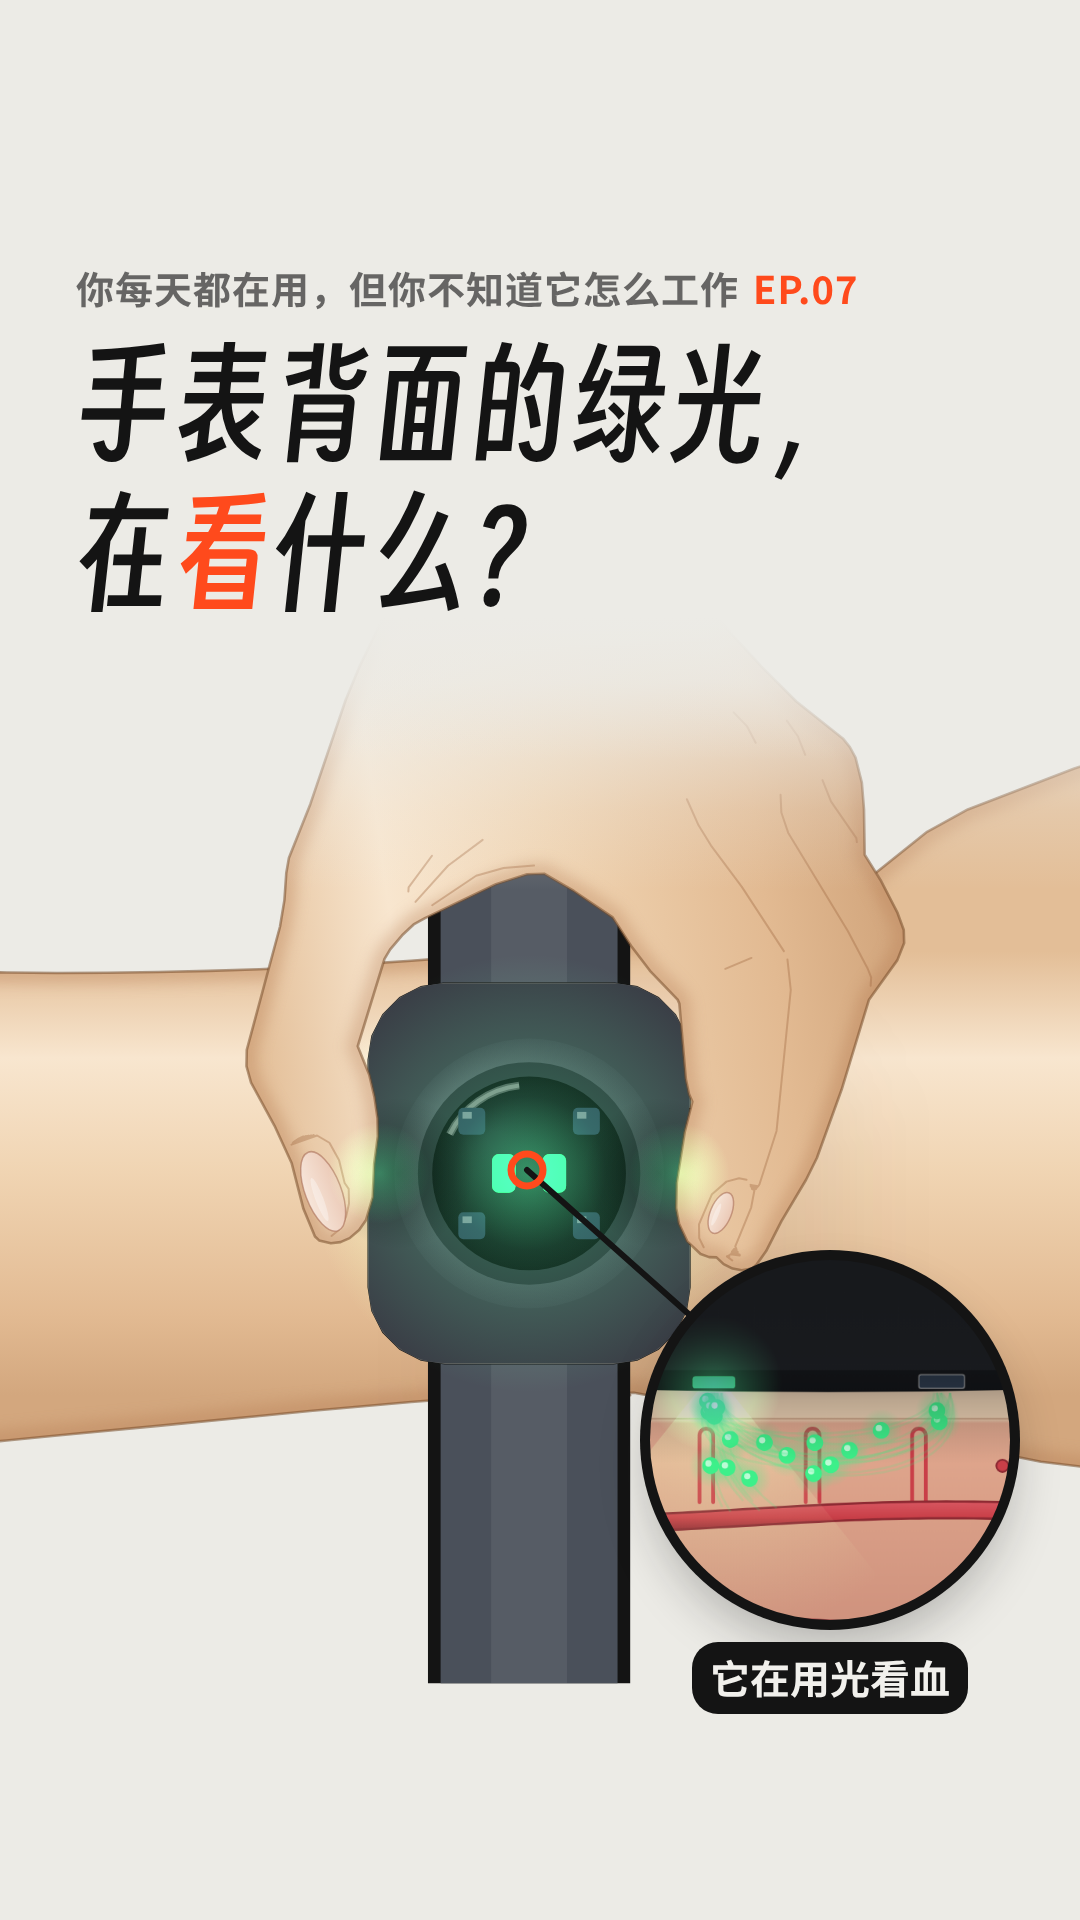
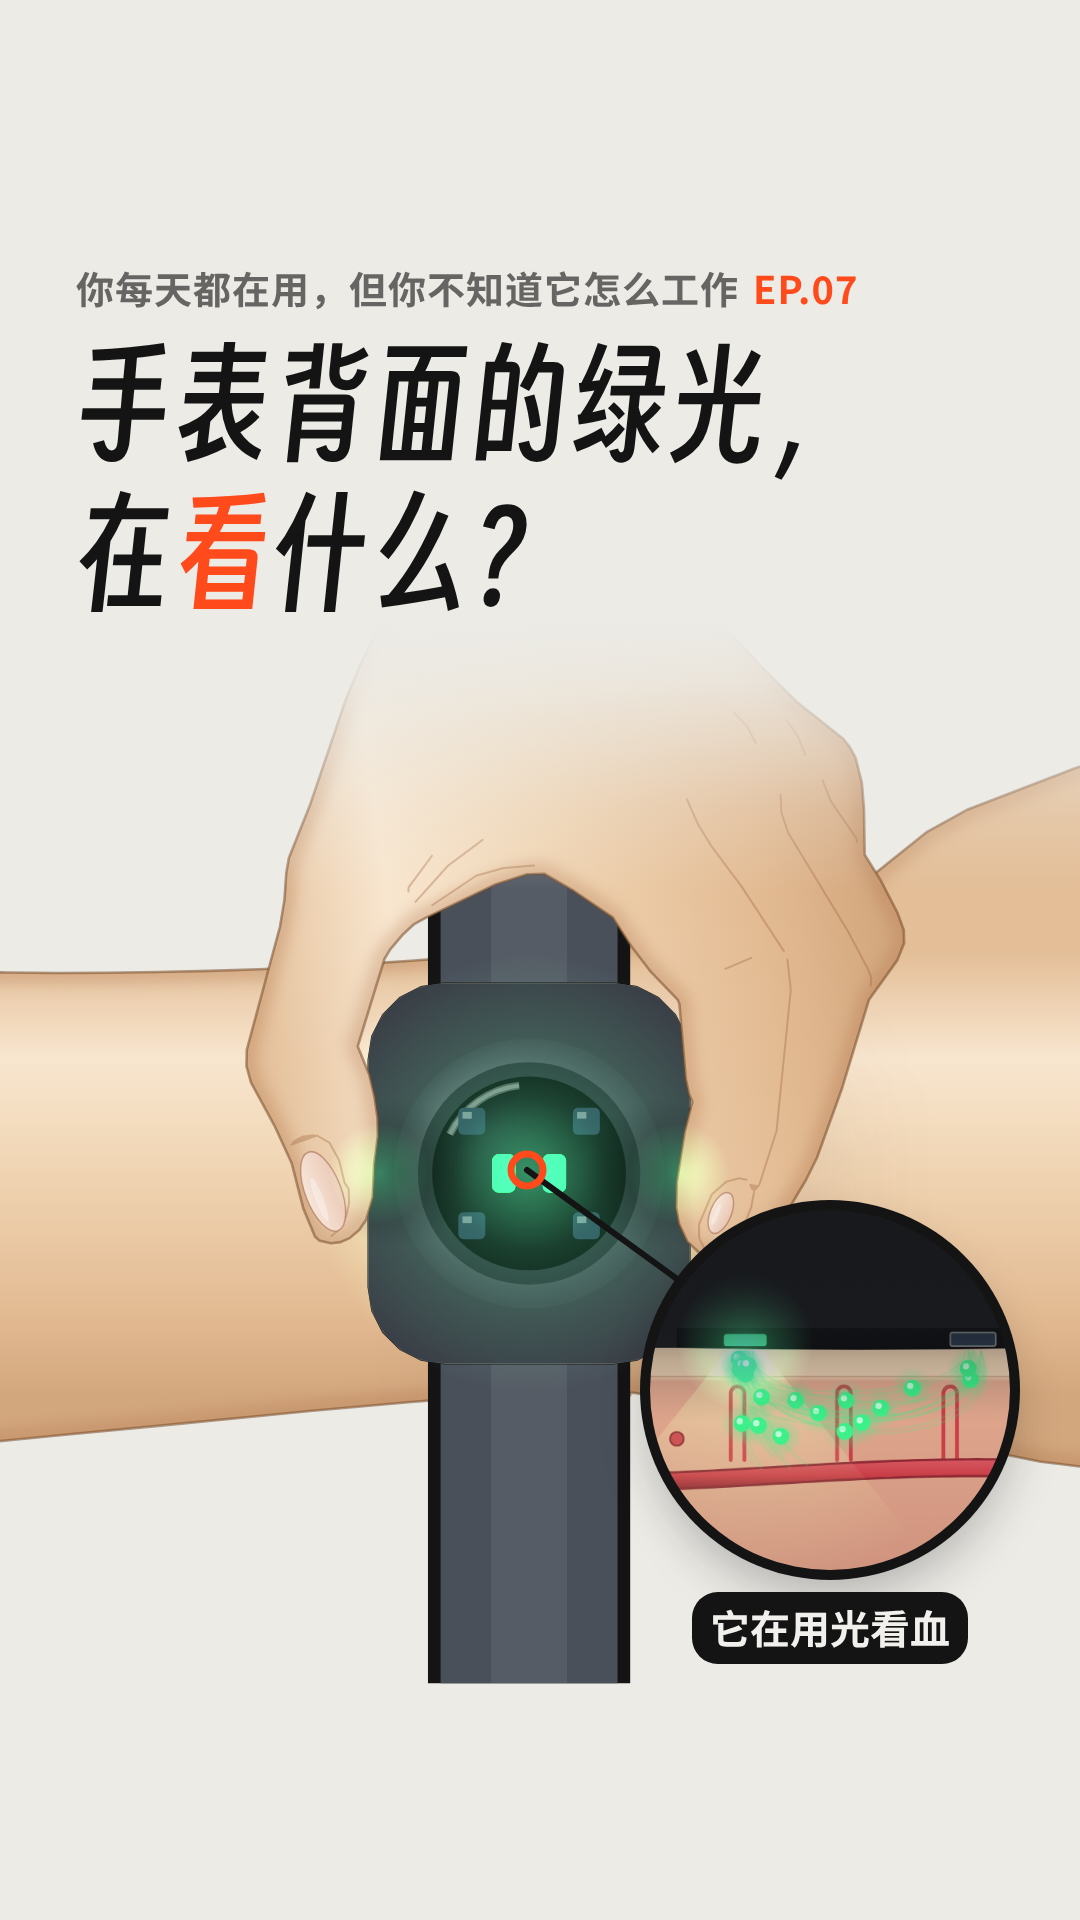
为什么 EP.07 交付包：按审核节点③修改——抖音描述改回「按一分钟算有几下」、补 #手表绿光 #心率监测原理、抖音封面标签收进中间 3:4、置顶评论按系列模板；可选：去掉「一直在闪」、抖音描述注「简化说法」、封面渐变收短、小红书标签上移
Claude-Session: https://claude.ai/code/session_012pd22mfUzfAXHAA1CPF6Wc

Changed region(s): [[0.5194, 0.625, 0.9472, 0.9062]]

diff --git a/templates/weishenme/covers/ep07-xiaohongshu.html b/templates/weishenme/covers/ep07-xiaohongshu.html
@@ -4,24 +4,24 @@
   html, body { margin: 0; background: #ECEBE6; }
   #cv { position: relative; width: 1080px; height: 1440px; overflow: hidden; background: #ECEBE6; }
   .hero { position: absolute; left: 0; top: -170px; width: 1080px; height: 1920px; background: url("art/ep07-hero.png") no-repeat; }
-  .wash { position: absolute; left: 0; top: 0; width: 100%; height: 480px; background: linear-gradient(#ECEBE6 0%, #ECEBE6 70%, rgba(236,235,230,0) 100%); }
+  .wash { position: absolute; left: 0; top: 0; width: 100%; height: 440px; background: linear-gradient(#ECEBE6 0%, #ECEBE6 70%, rgba(236,235,230,0) 100%); }
   .ser { position: absolute; left: 76px; top: 68px; font: 400 38px "NotoSC"; color: rgba(20,20,20,0.62); letter-spacing: 1px; }
   .ser i { font-style: normal; color: #FF4A1C; font-weight: 700; margin-left: 14px; }
   .t { position: absolute; left: 72px; font: 120px "Smiley"; color: #141414; white-space: nowrap; line-height: 1; }
   .t b { font-weight: normal; color: #FF4A1C; }
-  .inset { position: absolute; left: 710px; top: 990px; width: 320px; height: 320px; border-radius: 50%;
-    background: #17191C url("art/ep07-inset.png") no-repeat; background-size: 751.3043478260869px 1335.6521739130435px; background-position: -229.56521739130434px -375.65217391304344px;
+  .inset { position: absolute; left: 710px; top: 970px; width: 320px; height: 320px; border-radius: 50%;
+    background: #17191C url("art/ep07-inset.png") no-repeat; background-size: 751.3043478260869px 1335.6521739130435px; background-position: -201.7391304347826px -368.69565217391306px;
     box-shadow: 0 0 0 10px #141414, 0 24px 50px rgba(20,20,20,0.28); }
   svg { position: absolute; left: 0; top: 0; }
   .inset2 { display: none; position: absolute; left: 0px; top: 0px; width: 0px; height: 0px; border-radius: 50%;
     background: #ECEBE6 url("art/.png") no-repeat; background-size: 0px 0px; background-position: 0px 0px;
     box-shadow: 0 0 0 8px #141414, 0 18px 40px rgba(20,20,20,0.25); }
   .itag2 { position: absolute; left: 0px; top: 0px; transform: translateX(-50%); font: 700 38px "NotoSC"; color: #F1F0EC; background: #141414; padding: 6px 16px 8px; border-radius: 24px; white-space: nowrap; }
-  .itag { position: absolute; left: 870px; top: 1332px; transform: translateX(-50%); font: 700 40px "NotoSC"; color: #F1F0EC; background: #141414; padding: 6px 18px 8px; border-radius: 26px; white-space: nowrap; }
+  .itag { position: absolute; left: 870px; top: 1312px; transform: translateX(-50%); font: 700 40px "NotoSC"; color: #F1F0EC; background: #141414; padding: 6px 18px 8px; border-radius: 26px; white-space: nowrap; }
   </style></head><body><div id="cv">
   <div class="hero"></div>
   <svg width="1080" height="1440">
-    <line x1="527" y1="910" x2="733.9888746887835" y2="1054.831865671452" stroke="#141414" stroke-width="6" stroke-linecap="round"/>
+    <line x1="527" y1="910" x2="730.2717963324656" y2="1040.3784116418146" stroke="#141414" stroke-width="6" stroke-linecap="round"/>
     <circle cx="527" cy="910" r="16" fill="none" stroke="#FF4A1C" stroke-width="7"/></svg>
   <div class="wash"></div>
   <div class="ser">你每天都在用，但你不知道它怎么工作<i>EP.07</i></div>

diff --git a/templates/weishenme/covers/ep07-douyin.html b/templates/weishenme/covers/ep07-douyin.html
@@ -4,24 +4,24 @@
   html, body { margin: 0; background: #ECEBE6; }
   #cv { position: relative; width: 1080px; height: 1920px; overflow: hidden; background: #ECEBE6; }
   .hero { position: absolute; left: 0; top: 90px; width: 1080px; height: 1920px; background: url("art/ep07-hero.png") no-repeat; }
-  .wash { position: absolute; left: 0; top: 0; width: 100%; height: 760px; background: linear-gradient(#ECEBE6 0%, #ECEBE6 70%, rgba(236,235,230,0) 100%); }
+  .wash { position: absolute; left: 0; top: 0; width: 100%; height: 690px; background: linear-gradient(#ECEBE6 0%, #ECEBE6 70%, rgba(236,235,230,0) 100%); }
   .ser { position: absolute; left: 76px; top: 260px; font: 400 38px "NotoSC"; color: rgba(20,20,20,0.62); letter-spacing: 1px; }
   .ser i { font-style: normal; color: #FF4A1C; font-weight: 700; margin-left: 14px; }
   .t { position: absolute; left: 72px; font: 124px "Smiley"; color: #141414; white-space: nowrap; line-height: 1; }
   .t b { font-weight: normal; color: #FF4A1C; }
-  .inset { position: absolute; left: 650px; top: 1260px; width: 360px; height: 360px; border-radius: 50%;
-    background: #17191C url("art/ep07-inset.png") no-repeat; background-size: 845.2173913043479px 1502.608695652174px; background-position: -258.2608695652174px -422.60869565217394px;
+  .inset { position: absolute; left: 650px; top: 1210px; width: 360px; height: 360px; border-radius: 50%;
+    background: #17191C url("art/ep07-inset.png") no-repeat; background-size: 845.2173913043479px 1502.608695652174px; background-position: -226.95652173913044px -414.7826086956522px;
     box-shadow: 0 0 0 10px #141414, 0 24px 50px rgba(20,20,20,0.28); }
   svg { position: absolute; left: 0; top: 0; }
   .inset2 { display: none; position: absolute; left: 0px; top: 0px; width: 0px; height: 0px; border-radius: 50%;
     background: #ECEBE6 url("art/.png") no-repeat; background-size: 0px 0px; background-position: 0px 0px;
     box-shadow: 0 0 0 8px #141414, 0 18px 40px rgba(20,20,20,0.25); }
   .itag2 { position: absolute; left: 0px; top: 0px; transform: translateX(-50%); font: 700 38px "NotoSC"; color: #F1F0EC; background: #141414; padding: 6px 16px 8px; border-radius: 24px; white-space: nowrap; }
-  .itag { position: absolute; left: 830px; top: 1642px; transform: translateX(-50%); font: 700 40px "NotoSC"; color: #F1F0EC; background: #141414; padding: 6px 18px 8px; border-radius: 26px; white-space: nowrap; }
+  .itag { position: absolute; left: 830px; top: 1592px; transform: translateX(-50%); font: 700 40px "NotoSC"; color: #F1F0EC; background: #141414; padding: 6px 18px 8px; border-radius: 26px; white-space: nowrap; }
   </style></head><body><div id="cv">
   <div class="hero"></div>
   <svg width="1080" height="1920">
-    <line x1="527" y1="1170" x2="691.1336861482232" y2="1316.25774013208" stroke="#141414" stroke-width="6" stroke-linecap="round"/>
+    <line x1="527" y1="1170" x2="679.4892129370708" y2="1280.718240416355" stroke="#141414" stroke-width="6" stroke-linecap="round"/>
     <circle cx="527" cy="1170" r="16" fill="none" stroke="#FF4A1C" stroke-width="7"/></svg>
   <div class="wash"></div>
   <div class="ser">你每天都在用，但你不知道它怎么工作<i>EP.07</i></div>

diff --git a/episodes/weishenme/07-shoubiaolvguang/publish.md b/episodes/weishenme/07-shoubiaolvguang/publish.md
@@ -11,9 +11,9 @@
 **描述**
 
 ```text
-手表背面的绿光，在看什么？它没摸你的脉，是在用光看你的血：血是红的，因为它会吃掉绿光。心脏每跳一下，手腕里的血多一点，弹回来的光就暗一下，数一分钟暗了几下，就是你的心率。跑起来甩手会把光弄乱，表里的加速度计帮它把甩手那份减掉。运动戒指也是同一招，只是把灯搬到了手指上。
+手表背面的绿光，在看什么？它没摸你的脉，是在用光看你的血：血是红的，因为它会吃掉绿光。心脏每跳一下，手腕里的血多一点，弹回来的光就暗一下，按一分钟算有几下，就是你的心率。跑起来甩手会把光弄乱，表里的加速度计帮它把甩手那份减掉（简化说法）。运动戒指也是同一招，只是把灯搬到了手指上。
 小提示：表带贴紧，戴在腕骨靠手肘那边。
-#为什么系列 #手表测心率 #心率 #智能手表 #运动戒指 #科普 #涨知识
+#为什么系列 #手表测心率 #手表绿光 #心率监测原理 #智能手表 #运动戒指 #科普
 ```
 
 ## 小红书
@@ -36,9 +36,9 @@
 **正文**
 
 ```text
-把手表翻过来，背面有几颗绿灯一直在闪。它又没摸你的脉，怎么知道你的心跳？
+把手表翻过来，测心率时背面有几颗绿灯在闪。它又没摸你的脉，怎么知道你的心跳？
 
-答案是：它在用光，看你的血。
+答案是：它在用光，看你的血。这就是手表的心率监测原理。
 
 ① 血是红的，因为它把绿光吃掉了。手表往手腕里打绿光（每秒闪几百次），没被吃掉的光，弹回来被旁边的「光眼睛」（光电二极管）接住。
 ② 心脏一跳，手腕里的血就多一点，吃掉的绿光也多一点，弹回来的光就暗一下。
@@ -52,23 +52,23 @@
 
 画面说明：光的路径、血管鼓起、曲线起伏都放大了，为示意；心率 80 / 120 是示意数字。
 
-#手表测心率 #心率 #智能手表 #运动手表 #运动戒指 #PPG #光电容积描记 #科普 #为什么系列
+#手表测心率 #手表绿光 #心率监测原理 #心率 #智能手表 #运动戒指 #PPG #光电容积描记 #科普 #为什么系列
 ```
 
 ## 置顶评论（两个平台通用）
 
 ```text
-跑步时心率突然飙很高，你觉得是真累了，还是手表把甩手当成心跳了？评论区说说～
-```
-
-备用：
-
-```text
 下一集你想看什么？留言点名，点赞最多的先做。
 ```
 
+可以再加一条互动（观众 Codex 看片时最想问的一句）：
+
+```text
+跑步时心率突然飙很高，你觉得是真累了，还是手表把甩手当成心跳了？评论区说说～
+```
+
 ## 备注
-- 搜索关键词：手表测心率、心率监测原理、手表绿光、运动戒指、光电容积描记（PPG）。「手表测心率」放在小红书话题第一位，抖音话题里也有；「测心率」在小红书标题里；「光电容积描记 / PPG」在正文和标签里，片中只用小字。
+- 搜索关键词：手表测心率、心率监测原理、手表绿光、运动戒指、光电容积描记（PPG）。五个都在两个平台的话题里；「测心率」在小红书标题里；「心率监测原理」也在小红书正文里；「运动戒指」在抖音描述和小红书正文里；「光电容积描记 / PPG」在小红书正文和标签里，片中只用小字。
 - 不写具体型号，也不点评哪个牌子准（`FACTS.md`「注意」）。
 - 「每秒闪几百次」「血吃掉绿光」来自 Apple 支持（F1、F2、F4）；加速度计减掉运动是简化说法（F6）；戒指同一招来自 Oura 官方（F7、F13）；佩戴建议来自 Garmin 手册和 Apple（F11）；纹身挡光来自 Apple（F12）。
-- 置顶评论用了观众（Codex）看片时最想问的那句，容易带出讨论；用户也可以换回「下一集你想看什么」。
+- 置顶评论按系列模板；观众（Codex）最想问的那句作为第二条互动评论。
